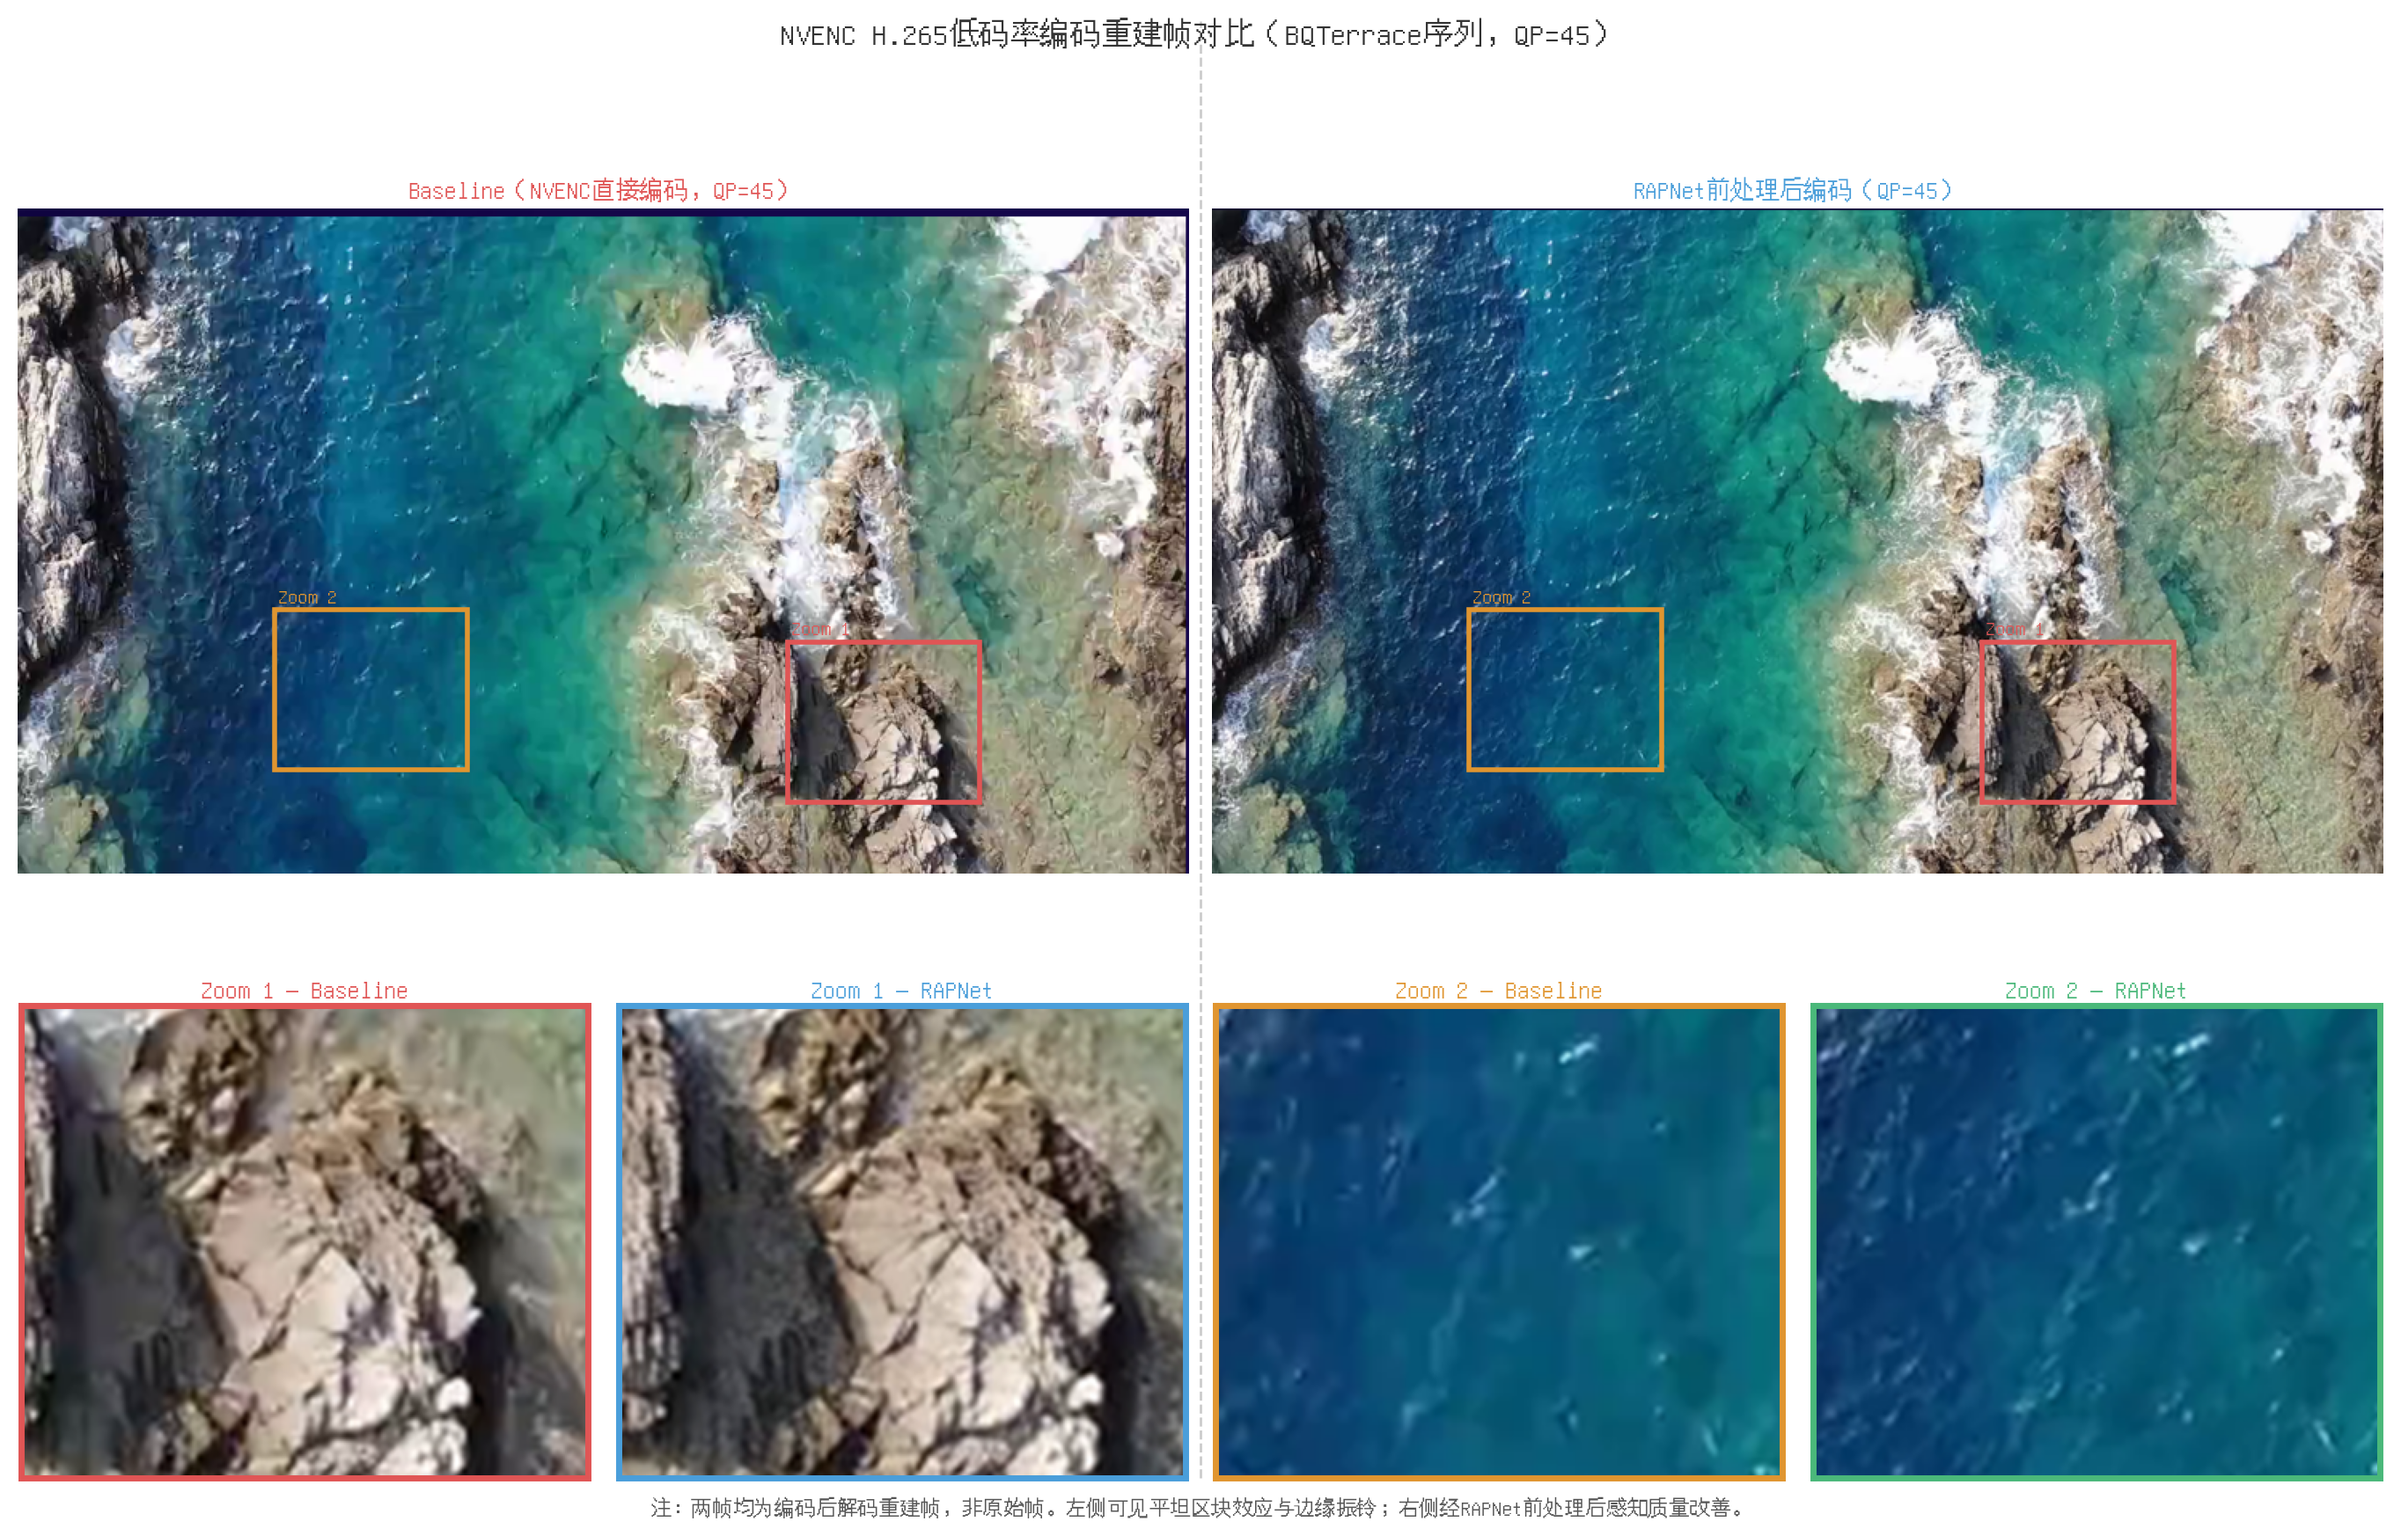
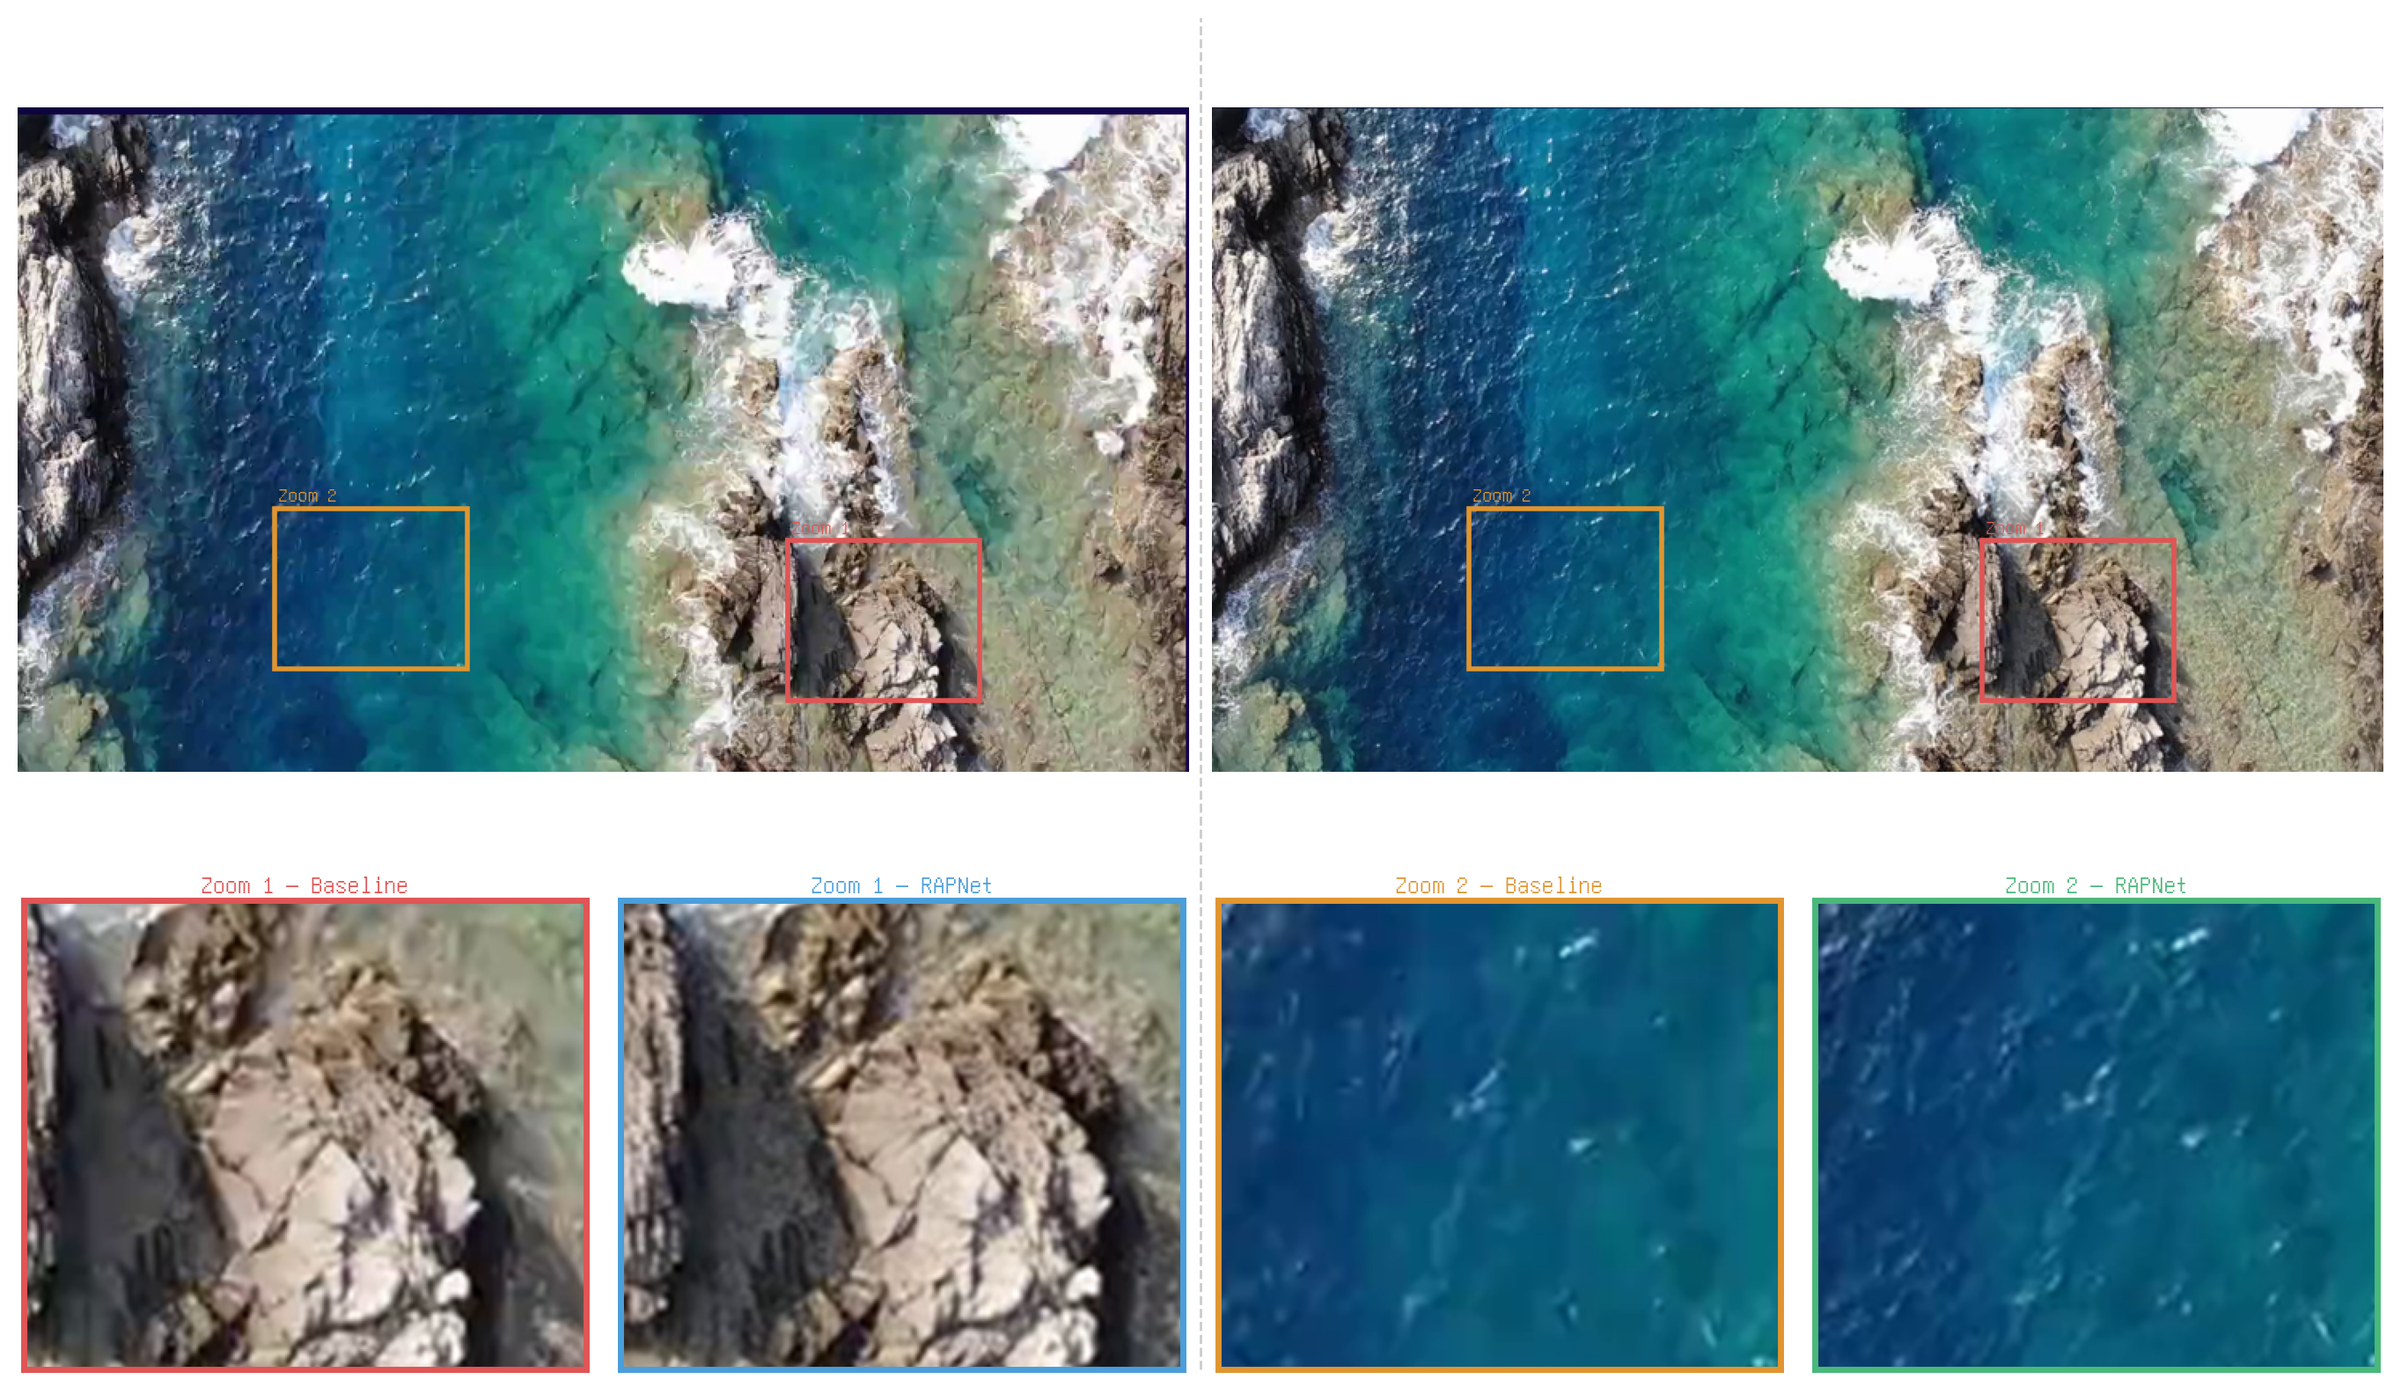
删去背景动机图三个标题（标题已在图题中说明）
https://claude.ai/code/session_0146V56eP4GpCQ6PCGaFWWAY

diff --git a/data/主观图片/gen_background_fig.py b/data/主观图片/gen_background_fig.py
@@ -67,7 +67,7 @@ COL_RAP  = '#4a9eda'    # 蓝色框 = RAPNet
 # ── 布局 ──────────────────────────────────────────────
 # 行1: Baseline全图 | RAPNet全图  (各占一半)
 # 行2: Zoom1-Base | Zoom1-RAP | Zoom2-Base | Zoom2-RAP
-fig = plt.figure(figsize=(14, 9))
+fig = plt.figure(figsize=(14, 8))
 
 gs = fig.add_gridspec(
     2, 4,
@@ -75,7 +75,7 @@ gs = fig.add_gridspec(
     hspace=0.06,
     wspace=0.04,
     left=0.02, right=0.98,
-    top=0.91, bottom=0.05
+    top=0.98, bottom=0.02
 )
 
 ax_bl = fig.add_subplot(gs[0, :2])   # Baseline全图 (左2列)
@@ -86,10 +86,8 @@ ax_z1r = fig.add_subplot(gs[1, 1])   # Zoom1 RAPNet
 ax_z2b = fig.add_subplot(gs[1, 2])   # Zoom2 Baseline
 ax_z2r = fig.add_subplot(gs[1, 3])   # Zoom2 RAPNet
 
-def show_img(ax, arr, title, title_color='black', zoom_boxes=None):
+def show_img(ax, arr, zoom_boxes=None):
     ax.imshow(arr)
-    ax.set_title(title, color=title_color, fontsize=11,
-                 fontproperties=zh_font, pad=4, fontweight='bold')
     ax.set_xticks([]); ax.set_yticks([])
     for spine in ax.spines.values():
         spine.set_visible(False)
@@ -114,24 +112,20 @@ def show_zoom(ax, arr, ec, label):
         spine.set_linewidth(2.5)
         spine.set_visible(True)
 
-# 全图 + 框标注
+# 全图 + 框标注（无标题）
 show_img(ax_bl, base,
-         'Baseline（NVENC直接编码，QP=45）',
-         title_color=COL_BASE,
          zoom_boxes=[
              (z1, COL_BASE, 'Zoom 1'),
              (z2, '#e09530', 'Zoom 2'),
          ])
 show_img(ax_rp, rap,
-         'RAPNet前处理后编码（QP=45）',
-         title_color=COL_RAP,
          zoom_boxes=[
              (z1, COL_BASE, 'Zoom 1'),
              (z2, '#e09530', 'Zoom 2'),
          ])
 
 # 分隔线（中间加一条细竖线）
-line = matplotlib.lines.Line2D([0.5, 0.5], [0.05, 0.97],
+line = matplotlib.lines.Line2D([0.5, 0.5], [0.02, 0.98],
                                 transform=fig.transFigure,
                                 color='#cccccc', linewidth=1, linestyle='--')
 fig.add_artist(line)
@@ -141,16 +135,6 @@ show_zoom(ax_z1b, z1_base, COL_BASE, 'Zoom 1 — Baseline')
 show_zoom(ax_z1r, z1_rap,  COL_RAP,  'Zoom 1 — RAPNet')
 show_zoom(ax_z2b, z2_base, '#e09530', 'Zoom 2 — Baseline')
 show_zoom(ax_z2r, z2_rap,  '#4ab87a', 'Zoom 2 — RAPNet')
-
-# 总标题说明
-fig.text(0.5, 0.955,
-         'NVENC H.265低码率编码重建帧对比（BQTerrace序列，QP=45）',
-         ha='center', fontsize=12.5,
-         fontproperties=zh_font, fontweight='bold', color='#333333')
-fig.text(0.5, 0.026,
-         '注：两帧均为编码后解码重建帧，非原始帧。左侧可见平坦区块效应与边缘振铃；右侧经RAPNet前处理后感知质量改善。',
-         ha='center', fontsize=8.5,
-         fontproperties=zh_font, color='#555555')
 
 out_path = '/home/user/Graduation-thesis/data/主观图片/background_blocking_comparison.png'
 fig.savefig(out_path, dpi=200, bbox_inches='tight', facecolor='white')
